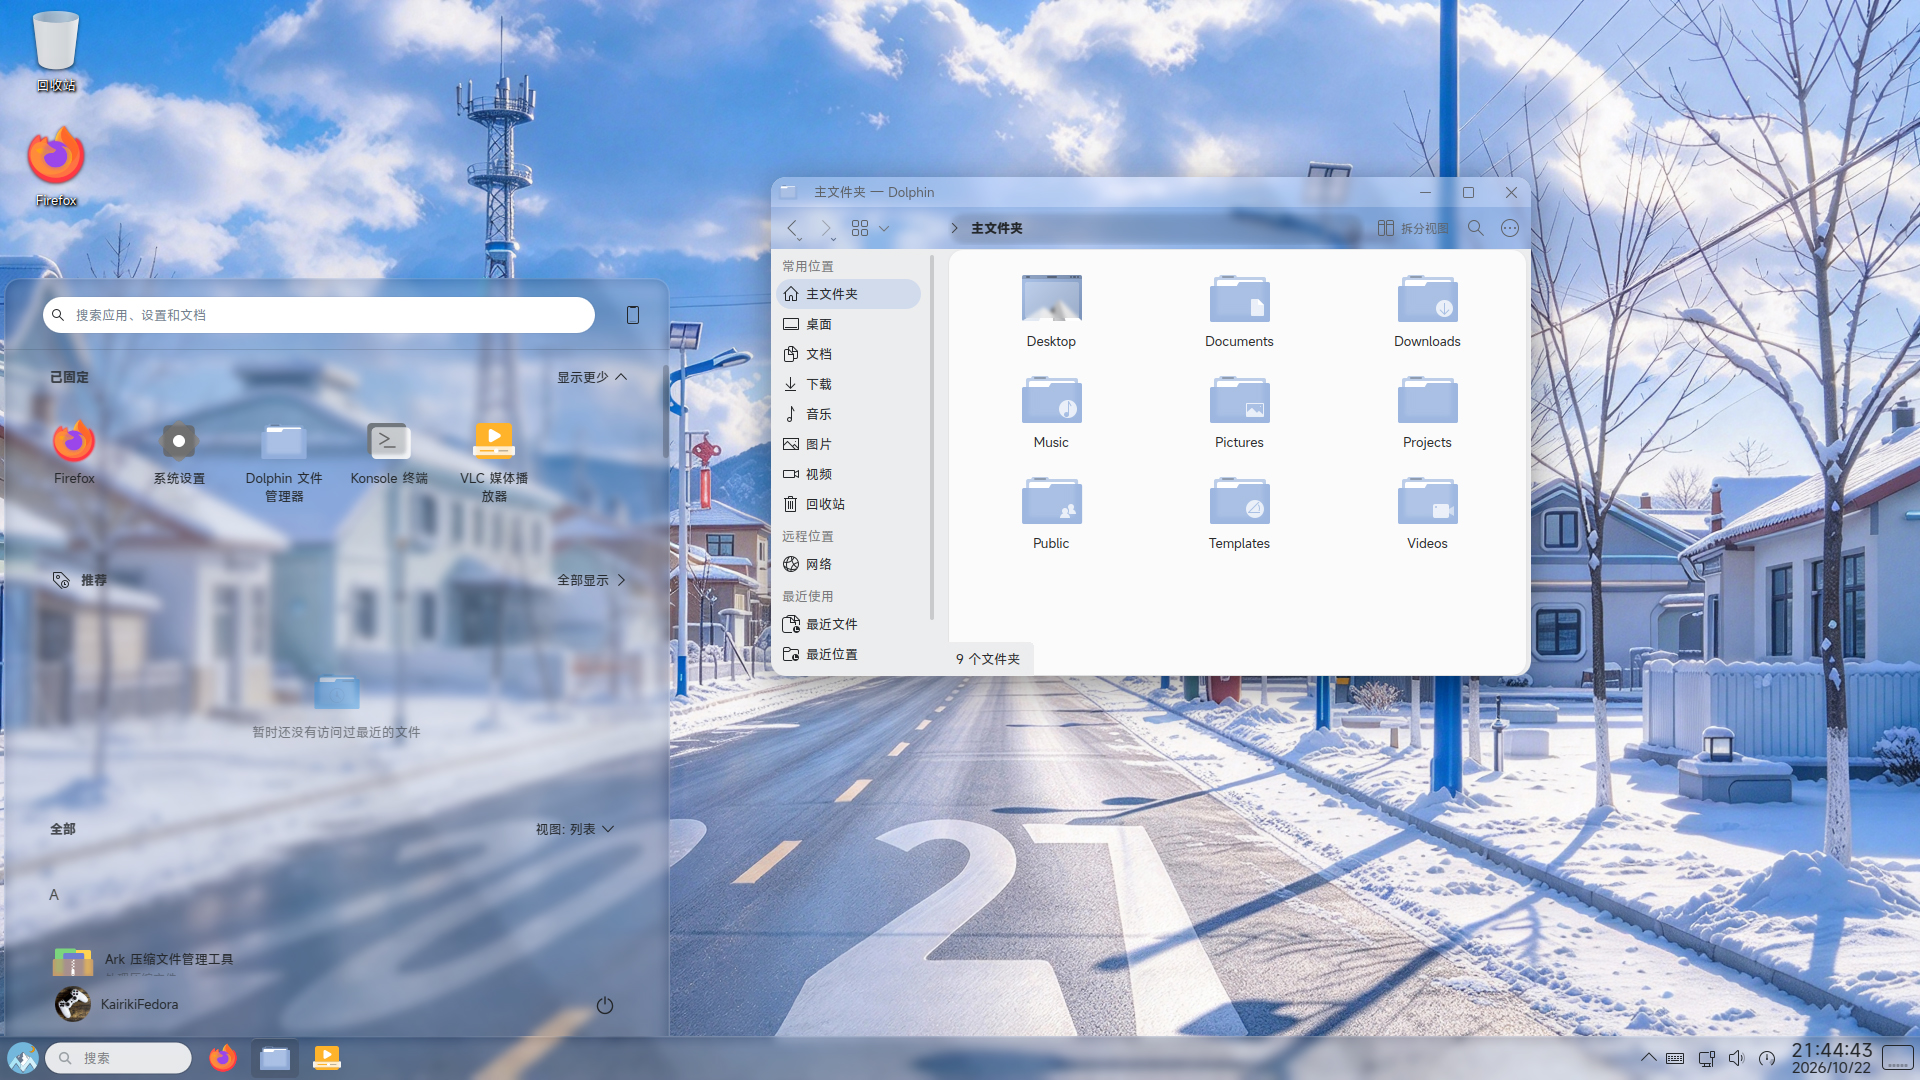
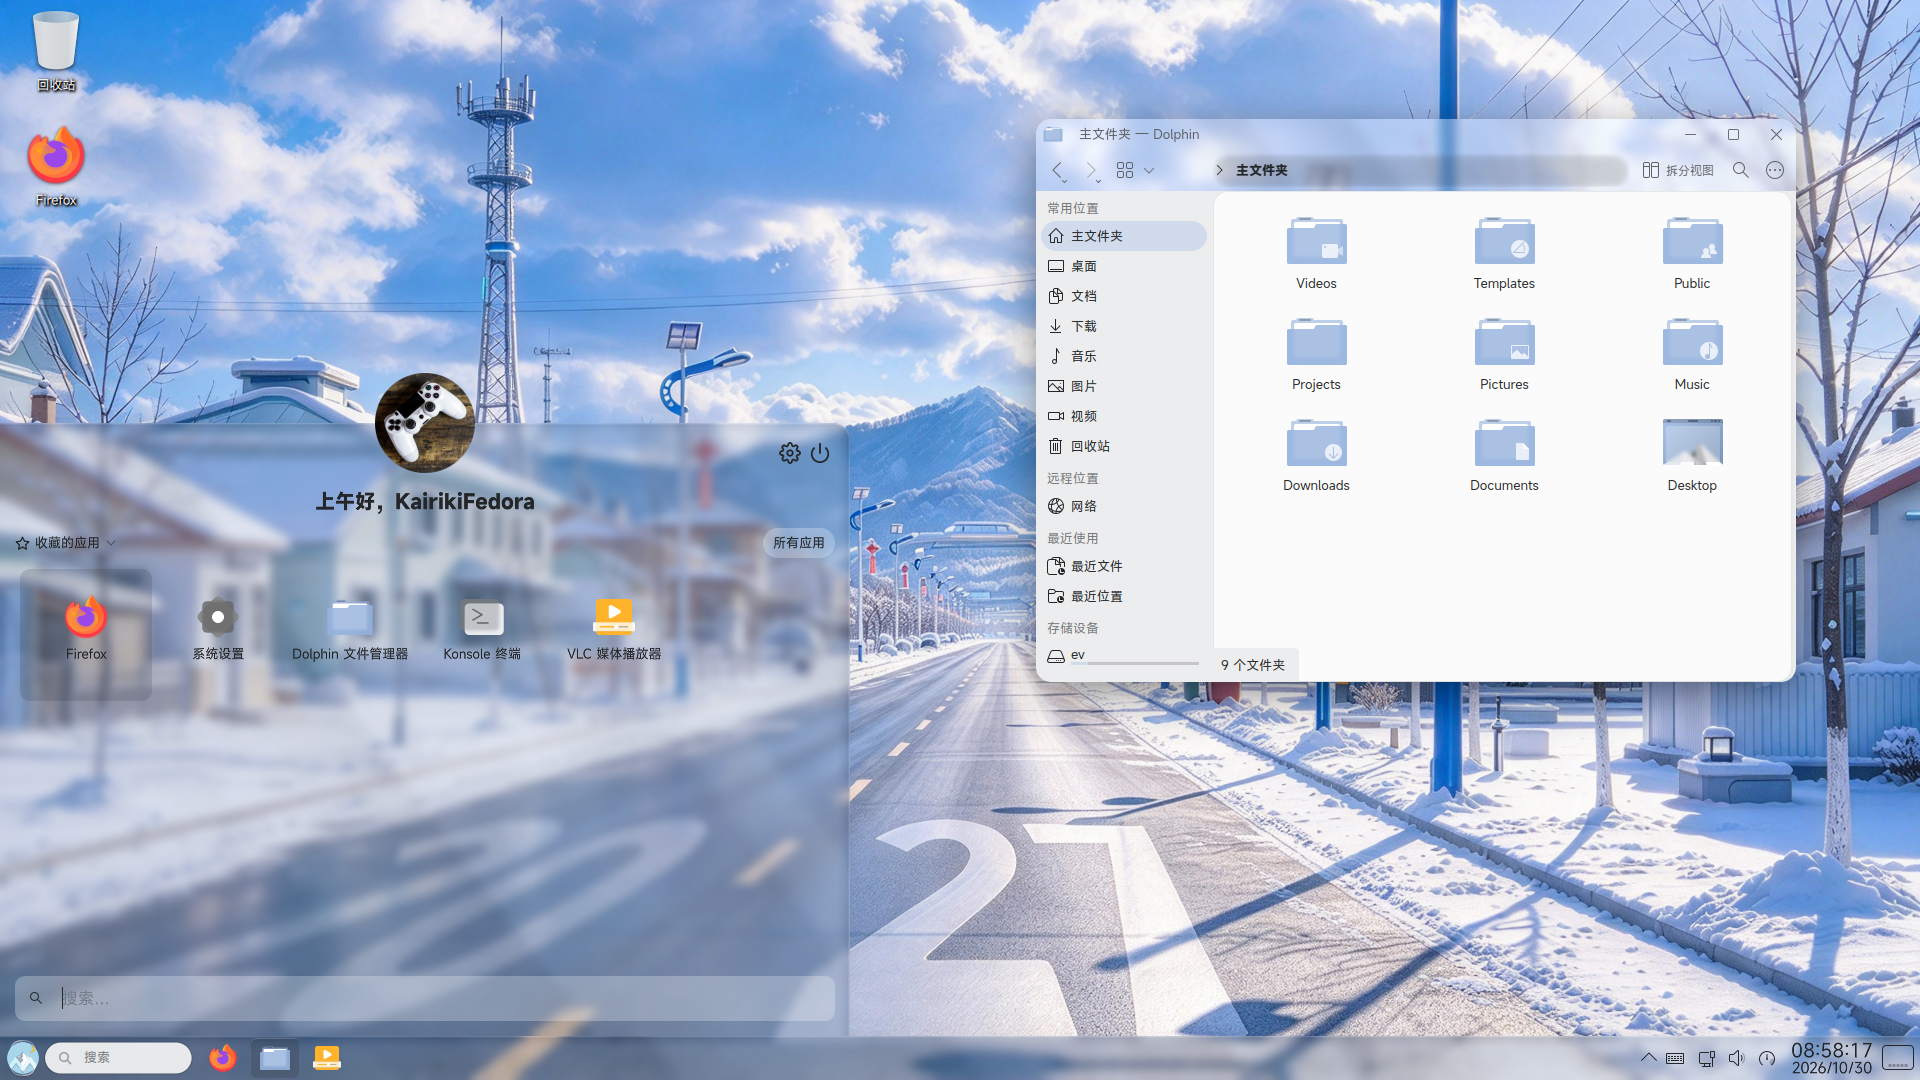
Update Start Menu

diff --git a/usr/share/plasma/look-and-feel/evernight-vista-harmony-dark/contents/layouts/org.kde.plasma.desktop-layout.js b/usr/share/plasma/look-and-feel/evernight-vista-harmony-dark/contents/layouts/org.kde.plasma.desktop-layout.js
@@ -42,7 +42,7 @@ if (geo.width > maximumWidth) {
     panel.maximumLength = maximumWidth;
 }
 
-var kickoff = panel.addWidget("org.miryugaming.start")
+var kickoff = panel.addWidget("org.miryugaming.startmenu")
 kickoff.writeConfig("favorites", ["preferred://browser", "systemsettings.desktop", "org.kde.dolphin.desktop", "org.kde.konsole.desktop", "vlc.desktop"])
 
 panel.addWidget("org.miryugaming.search")

diff --git a/usr/share/plasma/look-and-feel/evernight-vista-harmony/contents/layouts/org.kde.plasma.desktop-layout.js b/usr/share/plasma/look-and-feel/evernight-vista-harmony/contents/layouts/org.kde.plasma.desktop-layout.js
@@ -42,7 +42,7 @@ if (geo.width > maximumWidth) {
     panel.maximumLength = maximumWidth;
 }
 
-var kickoff = panel.addWidget("org.miryugaming.start")
+var kickoff = panel.addWidget("org.miryugaming.startmenu")
 kickoff.writeConfig("favorites", ["preferred://browser", "systemsettings.desktop", "org.kde.dolphin.desktop", "org.kde.konsole.desktop", "vlc.desktop"])
 
 panel.addWidget("org.miryugaming.search")

diff --git a/usr/share/plasma/look-and-feel/evernight-vista-dark/contents/layouts/org.kde.plasma.desktop-layout.js b/usr/share/plasma/look-and-feel/evernight-vista-dark/contents/layouts/org.kde.plasma.desktop-layout.js
@@ -43,7 +43,7 @@ if (geo.width > maximumWidth) {
 }
 
 panel.addWidget("org.kde.plasma.panelspacer")
-var kickoff = panel.addWidget("org.miryugaming.start")
+var kickoff = panel.addWidget("org.miryugaming.startmenu")
 kickoff.writeConfig("favorites", ["preferred://browser", "systemsettings.desktop", "org.kde.dolphin.desktop", "org.kde.konsole.desktop", "vlc.desktop"])
 
 

diff --git a/usr/share/plasma/look-and-feel/evernight-vista/contents/layouts/org.kde.plasma.desktop-layout.js b/usr/share/plasma/look-and-feel/evernight-vista/contents/layouts/org.kde.plasma.desktop-layout.js
@@ -43,7 +43,7 @@ if (geo.width > maximumWidth) {
 }
 
 panel.addWidget("org.kde.plasma.panelspacer")
-var kickoff = panel.addWidget("org.miryugaming.start")
+var kickoff = panel.addWidget("org.miryugaming.startmenu")
 kickoff.writeConfig("favorites", ["preferred://browser", "systemsettings.desktop", "org.kde.dolphin.desktop", "org.kde.konsole.desktop", "vlc.desktop"])
 
 

diff --git a/usr/share/plasma/look-and-feel/evernight-vista-classic-dark/contents/layouts/org.kde.plasma.desktop-layout.js b/usr/share/plasma/look-and-feel/evernight-vista-classic-dark/contents/layouts/org.kde.plasma.desktop-layout.js
@@ -42,7 +42,7 @@ if (geo.width > maximumWidth) {
     panel.maximumLength = maximumWidth;
 }
 
-var kickoff = panel.addWidget("org.miryugaming.start")
+var kickoff = panel.addWidget("org.miryugaming.startmenu")
 kickoff.writeConfig("favorites", ["preferred://browser", "systemsettings.desktop", "org.kde.dolphin.desktop", "org.kde.konsole.desktop", "vlc.desktop"])
 
 

diff --git a/usr/share/plasma/look-and-feel/evernight-vista-classic/contents/layouts/org.kde.plasma.desktop-layout.js b/usr/share/plasma/look-and-feel/evernight-vista-classic/contents/layouts/org.kde.plasma.desktop-layout.js
@@ -42,7 +42,7 @@ if (geo.width > maximumWidth) {
     panel.maximumLength = maximumWidth;
 }
 
-var kickoff = panel.addWidget("org.miryugaming.start")
+var kickoff = panel.addWidget("org.miryugaming.startmenu")
 kickoff.writeConfig("favorites", ["preferred://browser", "systemsettings.desktop", "org.kde.dolphin.desktop", "org.kde.konsole.desktop", "vlc.desktop"])
 
 

diff --git a/usr/share/plasma/layout-templates/evernight-vista-panel/contents/layout.js b/usr/share/plasma/layout-templates/evernight-vista-panel/contents/layout.js
@@ -45,7 +45,7 @@ if (panel.formFactor === "horizontal") {
 }
 
 panel.addWidget("org.kde.plasma.panelspacer")
-var kickoff = panel.addWidget("org.miryugaming.start")
+var kickoff = panel.addWidget("org.miryugaming.startmenu")
 panel.addWidget("org.miryugaming.search")
 
 //panel.addWidget("org.kde.plasma.showActivityManager")
